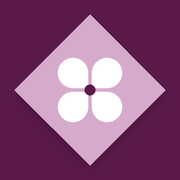
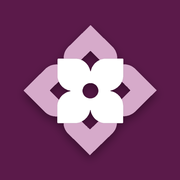
Add files via upload

Changed region(s): [[0.0833, 0.0833, 0.9167, 0.9167]]

diff --git a/gutschein.html b/gutschein.html
@@ -27,7 +27,7 @@ body{margin:0;background:var(--cream);color:var(--ink);font:16px/1.5 var(--fb);p
 .ph{height:150px;background:url(g-spa.jpg) center 40%/cover;position:relative}
 .ph::after{content:"";position:absolute;inset:0;background:linear-gradient(180deg,rgba(255,253,249,0) 40%,var(--paper))}
 .top{padding:0 24px 18px;text-align:center;margin-top:-56px;position:relative}
-.top img{width:108px;height:auto;border-radius:12px;background:var(--cream)}
+.top .logo{width:170px;height:auto;background:var(--paper);border-radius:18px;padding:12px 12px 8px;box-shadow:0 6px 18px -10px rgba(80,45,20,.35)}
 .kt{font:500 20px/1.2 var(--fs);letter-spacing:.2em;color:var(--gold);margin:12px 0 2px;text-transform:uppercase}
 .st{font-size:13px;color:var(--mut)}
 .amt{font:700 54px/1 var(--fs);color:var(--brown);margin:18px 0 4px}
@@ -83,7 +83,7 @@ td code{font-size:13px;white-space:nowrap}
   <article class="tk" aria-labelledby="kt">
     <div class="ph" role="img" aria-label="Spa"></div>
     <div class="top">
-      <img src="g-logo.jpg" alt="Tanawadee Thai Massage &amp; Lashes" width="195" height="170">
+      <img class="logo" src="logo.png" alt="Tanawadee Thai Massage &amp; Lashes" width="700" height="578">
       <div class="kt" id="kt"></div>
       <div class="st">Tanawadee Thai Massage &amp; Lashes</div>
       <div class="amt" id="vAmt"></div>

diff --git a/sw.js b/sw.js
@@ -1,4 +1,4 @@
-const C="thm-v22",F=["./","index.html","manifest.webmanifest","icon-192.png","icon-512.png","apple-touch-icon.png","hero.jpg","tanawadee.jpg","gutschein.jpg","gutschein.html","g-logo.jpg","g-spa.jpg"];
+const C="thm-v23",F=["./","index.html","manifest.webmanifest","icon-192.png","icon-512.png","apple-touch-icon.png","hero.jpg","tanawadee.jpg","gutschein.jpg","gutschein.html","logo.png","g-spa.jpg"];
 self.addEventListener("install",e=>{e.waitUntil(caches.open(C).then(c=>c.addAll(F)).then(()=>self.skipWaiting()))});
 self.addEventListener("activate",e=>{e.waitUntil(caches.keys().then(k=>Promise.all(k.filter(x=>x!==C).map(x=>caches.delete(x)))).then(()=>self.clients.claim()))});
 self.addEventListener("fetch",e=>{
